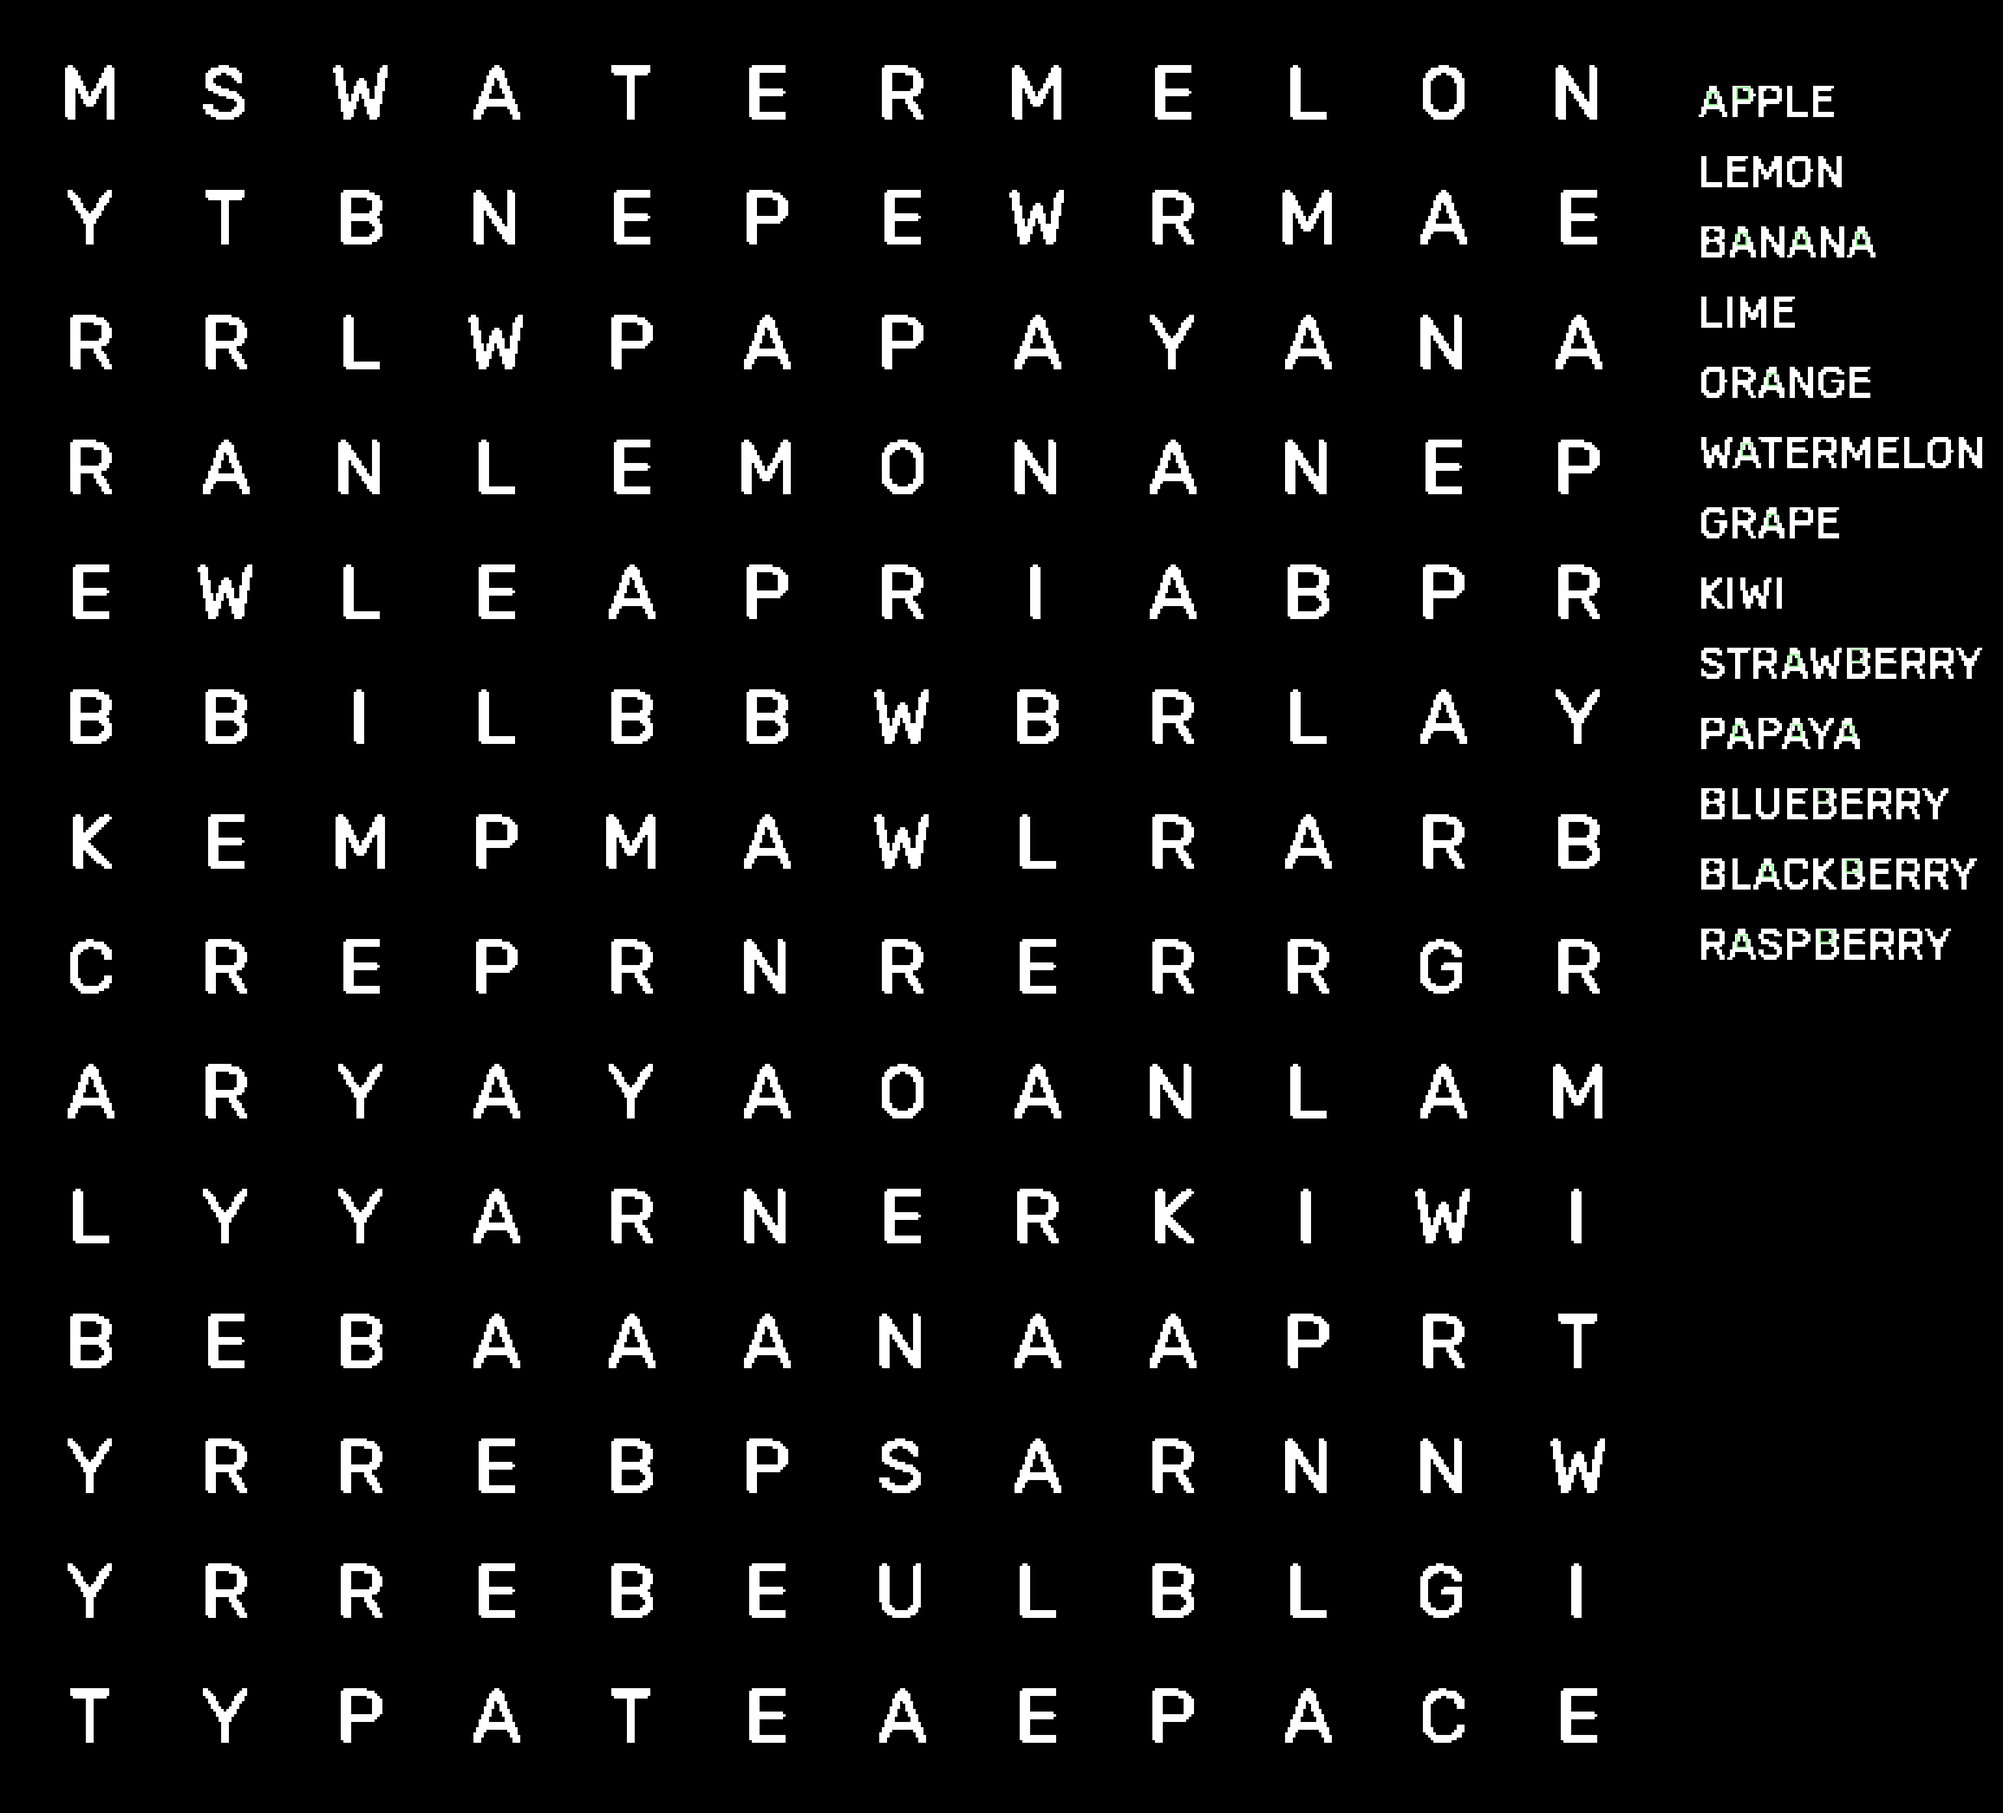
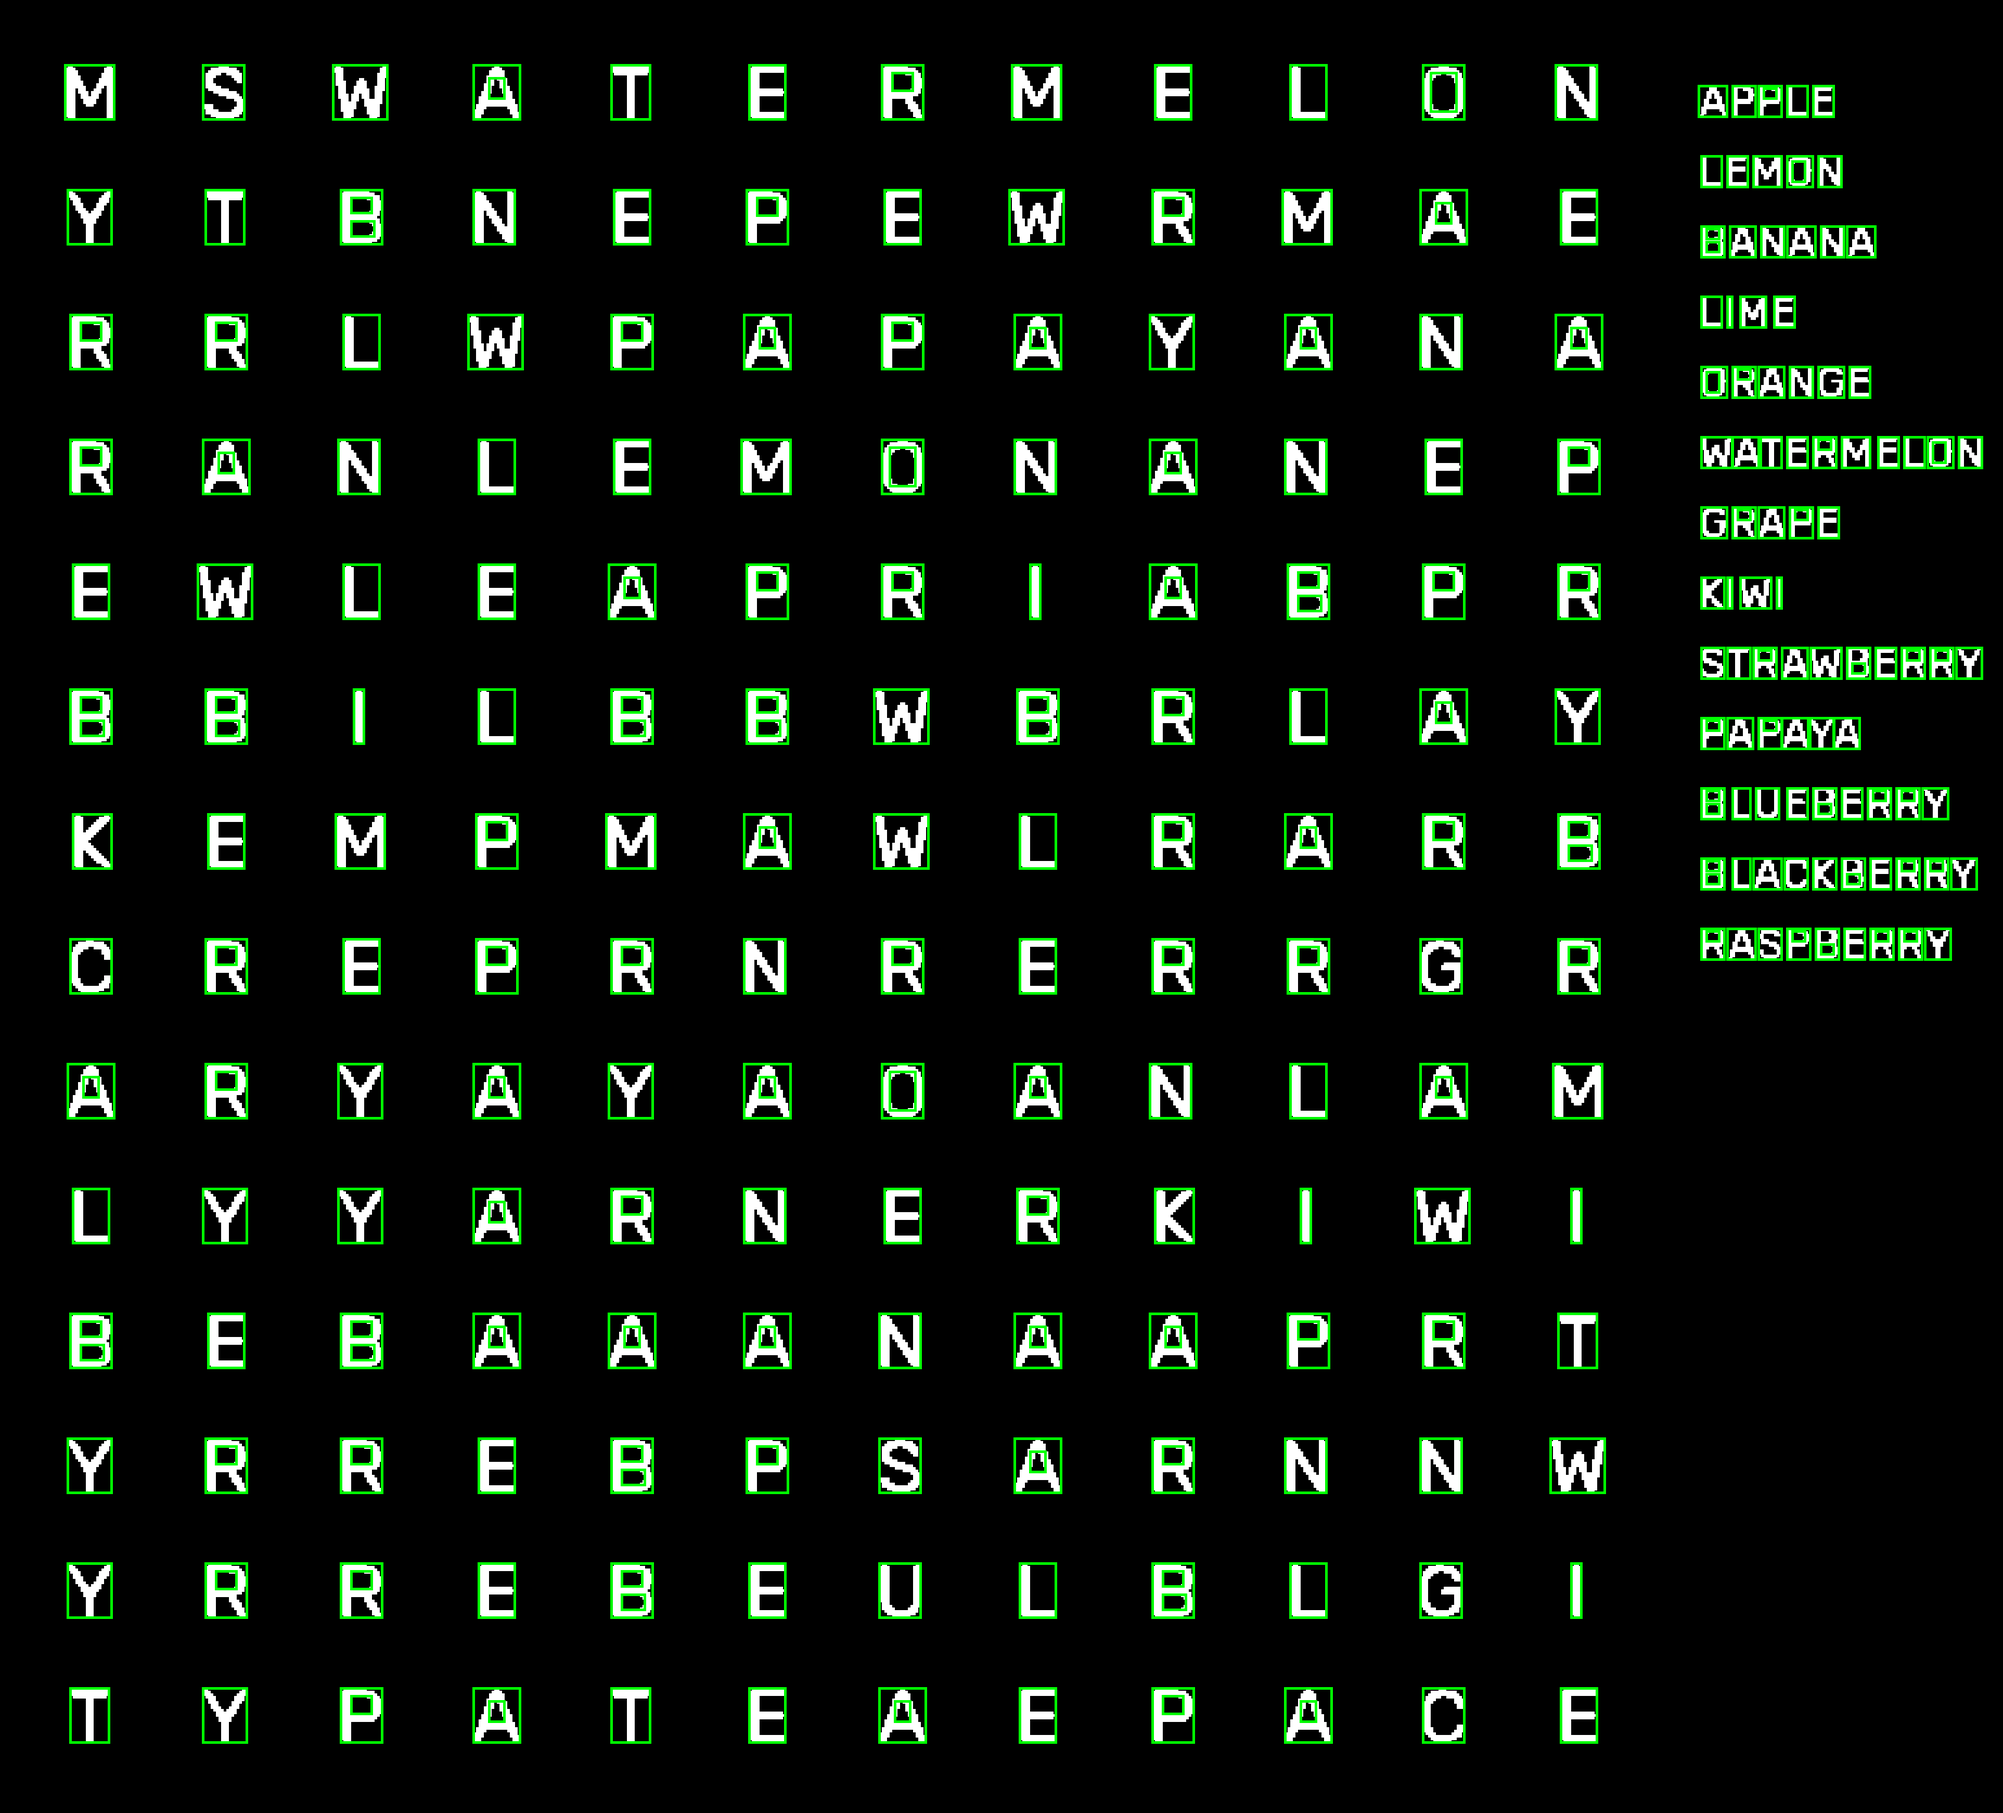
fix:some fix

diff --git a/detection/src/boxes.c b/detection/src/boxes.c
@@ -166,36 +166,56 @@ void draw_rectangles(custIMG *img, BoundingBox *boxes, int num_boxes, Color colo
         int max_x = boxes[i].max_x;
         int max_y = boxes[i].max_y;
 
-        // Dessiner la ligne du haut
-        for (int x = min_x; x <= max_x; x++)
+        // Dessiner les bordures horizontales avec PADDING
+        for (int p = 0; p < PADDING; p++)
         {
-            img->pixels[min_y][x].r = color.r;
-            img->pixels[min_y][x].g = color.g;
-            img->pixels[min_y][x].b = color.b;
+            // Ligne du haut
+            if (min_y + p < img->height)
+            {
+                for (int x = min_x; x <= max_x; x++)
+                {
+                    img->pixels[min_y + p][x].r = color.r;
+                    img->pixels[min_y + p][x].g = color.g;
+                    img->pixels[min_y + p][x].b = color.b;
+                }
+            }
+
+            // Ligne du bas
+            if (max_y - p >= 0)
+            {
+                for (int x = min_x; x <= max_x; x++)
+                {
+                    img->pixels[max_y - p][x].r = color.r;
+                    img->pixels[max_y - p][x].g = color.g;
+                    img->pixels[max_y - p][x].b = color.b;
+                }
+            }
         }
 
-        // Dessiner la ligne du bas
-        for (int x = min_x; x <= max_x; x++)
+        // Dessiner les bordures verticales avec PADDING
+        for (int p = 0; p < PADDING; p++)
         {
-            img->pixels[max_y][x].r = color.r;
-            img->pixels[max_y][x].g = color.g;
-            img->pixels[max_y][x].b = color.b;
-        }
+            // Ligne de gauche
+            if (min_x + p < img->width)
+            {
+                for (int y = min_y; y <= max_y; y++)
+                {
+                    img->pixels[y][min_x + p].r = color.r;
+                    img->pixels[y][min_x + p].g = color.g;
+                    img->pixels[y][min_x + p].b = color.b;
+                }
+            }
 
-        // Dessiner la ligne de gauche
-        for (int y = min_y; y <= max_y; y++)
-        {
-            img->pixels[y][min_x].r = color.r;
-            img->pixels[y][min_x].g = color.g;
-            img->pixels[y][min_x].b = color.b;
-        }
-
-        // Dessiner la ligne de droite
-        for (int y = min_y; y <= max_y; y++)
-        {
-            img->pixels[y][max_x].r = color.r;
-            img->pixels[y][max_x].g = color.g;
-            img->pixels[y][max_x].b = color.b;
+            // Ligne de droite
+            if (max_x - p >= 0)
+            {
+                for (int y = min_y; y <= max_y; y++)
+                {
+                    img->pixels[y][max_x - p].r = color.r;
+                    img->pixels[y][max_x - p].g = color.g;
+                    img->pixels[y][max_x - p].b = color.b;
+                }
+            }
         }
     }
 }

diff --git a/detection/src/canny.c b/detection/src/canny.c
@@ -243,9 +243,9 @@ void process(custIMG *img)
     BoundingBox *grid_boxes;
     int num_grid_box;
 
-    filter_grid_boxes(&boxes, num_boxes, &grid_boxes, &num_grid_box);
+    //filter_grid_boxes(&boxes, num_boxes, &grid_boxes, &num_grid_box);
 
-    draw_rectangles(img, grid_boxes, num_grid_box, red);
+    //draw_rectangles(img, grid_boxes, num_grid_box, red);
 
 
 
